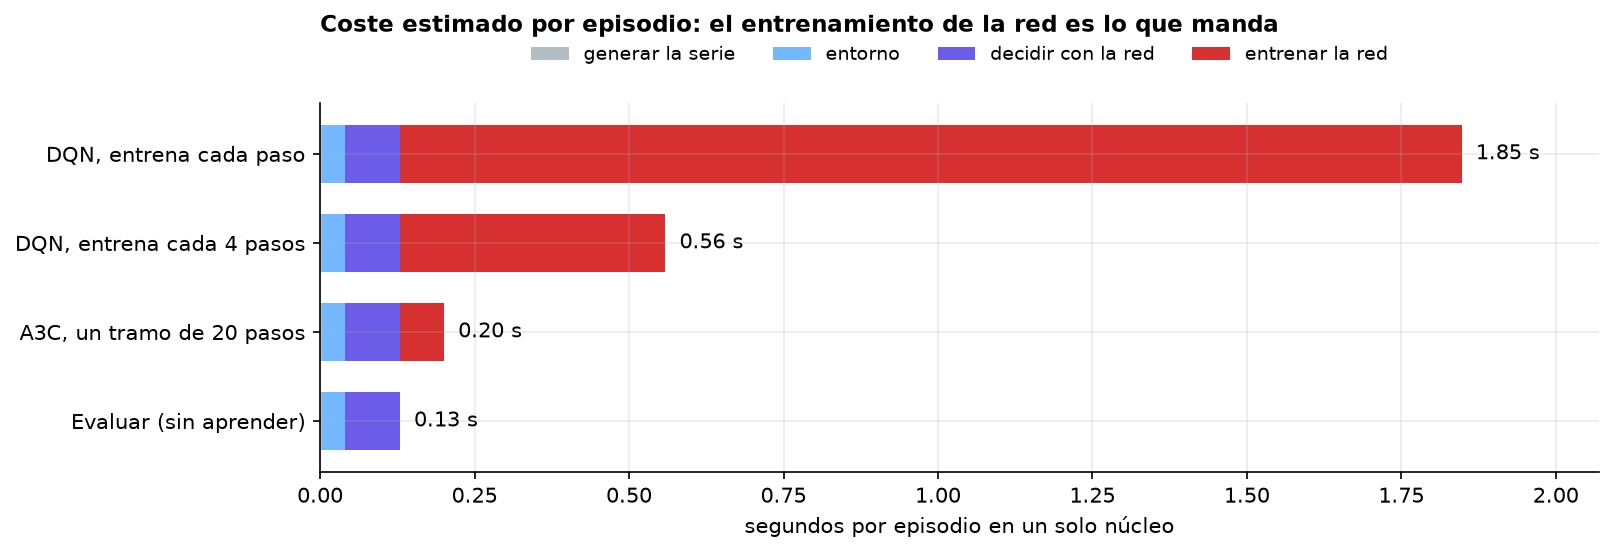
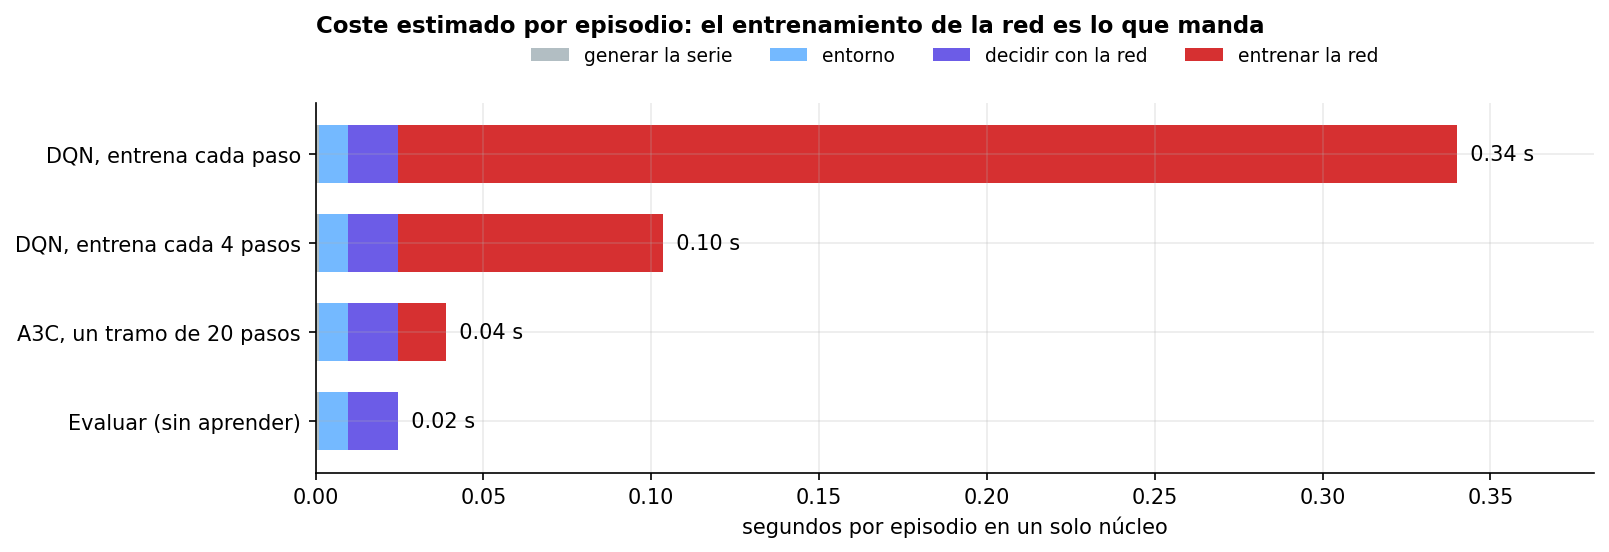
Actualiza los tiempos al equipo actual y D-1.1 en la teoría
Vuelve a medir el coste de entrenamiento del notebook 00, §7, con un Ryzen 5 3600,
incluida la ganancia real con varios procesos a la vez. Un barrido grande de DQN
pasa de más de un día a unas horas.

La teoría ya da D-1.1 por cerrada y remite a train_scales en lugar de proponer
otros escalados.

diff --git a/docs/teoria/notebook_partida.md b/docs/teoria/notebook_partida.md
@@ -230,7 +230,7 @@ El paso de compra ya cobra la variación del precio; el de venta, no.
 | $\lvert r\rvert$ máximo | 0,51 | ≈0,12 | **Recortar la recompensa a ±1 no hace nada** (trampa 8) |
 
 - "Recompensa ≈1e-3 por paso" (D-1.1) es el orden de la **señal** y de la comisión. El **ruido** es de 2e-2 a 1e-1, y hay que tenerlo en cuenta al elegir la escala.
-- Sin normalizar, la tendencia de los mercados 2-4 apenas mueve la entrada frente a la posición, y la red tenderá a ignorarla. No sirve normalizar con los límites de `observation_space` (±1), que no reflejan la escala real. Normalizar con estadísticos de train por mercado es la alternativa de D-1.1, que sigue abierta.
+- Sin normalizar, la tendencia de los mercados 2-4 apenas mueve la entrada frente a la posición, y la red tenderá a ignorarla. No sirve normalizar con los límites de `observation_space` (±1), que no reflejan la escala real. Normalizar con estadísticos de train por mercado es lo que decide D-1.1, ya cerrada (`train_scales`).
 - Las Q iniciales de una red sin entrenar pueden ser mayores que las diferencias entre acciones (≈1e-3). **La pérdida baja antes de que la política tenga sentido:** mirad la política, no solo la pérdida.
 - **Lo que no cambia:** la red recibe la misma información que la tabla. Gana resolución (umbral continuo, sin bins) y generalización, **pero no ve nada nuevo.** Donde el Taller 1 falló por falta de información (mercado 4), no hay razón para esperar una mejora.
 
@@ -388,7 +388,7 @@ Convergencia del duelo con la misma configuración (T1:D-2.5). Otros datos del T
 12. **Un `terminated` mal tratado.** El último paso no es terminal de verdad (D-1.2). Afecta a 1 de 494 pasos en DQN, pero en A3C también al arranque del retorno de $n$ pasos: decidid una regla y usadla en los dos.
 13. **Evaluar A3C solo en *greedy*.** Por las acciones redundantes (§4.2, sutileza 2), la política determinista puede diferir mucho de la estocástica aprendida. Comparad las dos antes de sacar conclusiones. En la tabla va la *greedy* (D-0.1), y conviene decir si la estocástica difiere.
 14. **Volver a ejecutar la celda que crea el modelo** y perder lo entrenado (T30 ~04:43). Guardad con `save` y usad la caché de `run_grid`.
-15. **Quedarse sin tiempo.** Con los costes de D-0.2 (una medición, vale la proporción), aprender en cada paso cuesta 494 × ≈3,6 ms ≈ 1,8 s por episodio: 500 episodios son ≈15 min y 4 mercados × 5 semillas son ≈5 h **en secuencia, para un solo algoritmo y sin barridos**. Evaluar 200 series añade ≈28 s por agente y mercado. Conviene aprender cada varios pasos o al final de la época (T30 ~03:33), aunque un único paso de gradiente por episodio es muy poco ([03_dqn.md](03_dqn.md) §13); lanzar barridos con `run_grid` y reservar el resultado final con tiempo. Y `tiempo_s` solo es comparable con `n_jobs=1`.
+15. **Quedarse sin tiempo.** Con lo medido en el equipo actual (notebook 00, §7), aprender en cada paso cuesta ≈0,34 s por episodio: 500 episodios son ≈3 min y 4 mercados × 5 semillas son ≈1 h **en secuencia, para un solo algoritmo y sin barridos**. Evaluar 200 series añade ≈10 s por agente y mercado. En otro equipo puede costar varias veces más. Conviene aprender cada varios pasos o al final de la época (T30 ~03:33), aunque un único paso de gradiente por episodio es muy poco ([03_dqn.md](03_dqn.md) §13); lanzar barridos con `run_grid` y reservar el resultado final con tiempo. Y `tiempo_s` solo es comparable con `n_jobs=1`.
 16. **Funciones en celdas con A3C.** En Windows, `spawn` no puede importar funciones de una celda; `worker` va en `common/a3c.py`, con `set_num_threads(1)` y `set_seed` por proceso (README; D-0.2). No se anidan procesos: `run_grid(..., n_jobs=1)`.
 17. **Usar GPU esperando ganar tiempo.** Con estas redes no compensa (T30 ~04:40; D-0.2).
 18. **Modificar `env.py` o los generadores.** Lo detecta `test_common.py` y rompe la comparación. Las variantes van en un entorno derivado.

diff --git a/docs/teoria/03_dqn.md b/docs/teoria/03_dqn.md
@@ -759,8 +759,8 @@ Las celdas 0-1, 4 son importaciones y vídeo; 5 está vacía; 7 crea el entorno;
 
 **Nota (propuestas nuestras, a validar):**
 
-1. **Escala: es el riesgo principal.** $10^{-3}$ es el orden de la señal y de la comisión; con posición abierta, el ruido por paso es de $2\cdot10^{-2}$ a $10^{-1}$ ([notebook_partida.md](notebook_partida.md) §4.3). Las diferencias entre acciones que la red debe resolver son del orden de $10^{-3}$: su contribución al error cuadrático ronda $10^{-6}$ y sus gradientes con MSE casi desaparecen, en especial con SGD. El recorte a $[-1,1]$ **no hace nada aquí**: hay que **escalar** por una constante positiva, por ejemplo $r\times100$, que no altera la política óptima. Medirlo imprimiendo mínimo y máximo de los *targets*, como la línea comentada de la celda 6 de `2-cart_pole_DQN`.
-2. **Entrada.** Comprobar la escala real de `tendencia`: si es del orden de $10^{-2}$ al lado de `posición` en $\{0,1\}$, la red apenas la verá. Se puede normalizar con una constante fija, sin tocar el entorno copiado, en un envoltorio.
+1. **Escala: es el riesgo principal.** $10^{-3}$ es el orden de la señal y de la comisión; con posición abierta, el ruido por paso es de $2\cdot10^{-2}$ a $10^{-1}$ ([notebook_partida.md](notebook_partida.md) §4.3). Las diferencias entre acciones que la red debe resolver son del orden de $10^{-3}$: su contribución al error cuadrático ronda $10^{-6}$ y sus gradientes con MSE casi desaparecen, en especial con SGD. El recorte a $[-1,1]$ **no hace nada aquí**: hay que **escalar** por una constante positiva, que no altera la política óptima. D-1.1 (cerrada) fija esa constante: $r/\sigma_{\text{retorno}}$, con `train_scales(mercado)`. Medirlo imprimiendo mínimo y máximo de los *targets*, como la línea comentada de la celda 6 de `2-cart_pole_DQN`.
+2. **Entrada.** La `tendencia` es del orden de $10^{-2}$ al lado de `posición` en $\{0,1\}$, y la red apenas la vería. D-1.1 (cerrada) la divide por $\sigma_{\text{tendencia}}$ dentro del agente, sin tocar el entorno copiado.
 3. **Frecuencia de actualización.** Entrenar en cada paso, o cada pocos, no una vez por episodio. El resultado de §13 es el aviso: 494 transiciones por episodio y un solo gradiente sería muy poco. D-0.2 mide unos 3 ms por paso de entrenamiento en PyTorch, lo que lo hace viable.
 4. **Memoria.** 494 transiciones por episodio implica que 1.000 no llegan a 2 episodios, y 20.000 son unos 40 episodios. Partir de esos 20.000 y variar; con un mínimo de arranque antes de entrenar.
 5. **Red objetivo.** Incluirla desde el principio, con la copia en el sentido correcto ($\theta^-\leftarrow\theta$) y $C$ como hiperparámetro, y comparar con y sin ella para justificarla.

diff --git a/docs/teoria/04_doble_dqn_y_duelo.md b/docs/teoria/04_doble_dqn_y_duelo.md
@@ -180,7 +180,7 @@ Por qué tendrían sentido aquí (apartado de "ir más allá"):
 1. **Ruido alto, señal baja.** Los precios sintéticos tienen una componente aleatoria importante, así que $Q$ es muy ruidosa y la diferencia entre acciones es pequeña. Es el escenario donde el `max` más sobreestima: la red "encuentra" una acción que parece ganar solo por ruido. Con Doble DQN, el valor de esa acción lo da otra red con ruido distinto. En trading, la sobreestimación se traduce en operar de más y pagar comisiones (0,1 % por operación) por ganancias que no existen.
 2. **Pocas acciones (3).** La sobreestimación crece con el número de acciones candidatas, así que con 3 el efecto será menor que en juegos con muchas acciones; es esperable una mejora modesta de Doble DQN. Merece probarlo igualmente: cuesta una línea.
 3. **Dueling.** En muchos pasos las tres acciones valen casi lo mismo (la posición ya está tomada y el precio no se mueve de forma explotable). Lo que la red debe aprender sobre todo es el valor del estado, $V(s)$ (p. ej. "estoy largo en una tendencia alcista"), y las ventajas son diferencias pequeñas. El duelo comparte ese aprendizaje de $V$ entre las tres acciones.
-4. **Escala de recompensa.** Con recompensas de $\sim10^{-3}$, las diferencias entre acciones son del orden de la comisión y la red puede no distinguirlas. Conviene reescalar o normalizar la recompensa (p. ej. multiplicar por 100-1000) y vigilar que $Q$ no colapse a una constante.
+4. **Escala de recompensa.** Con recompensas de $\sim10^{-3}$, las diferencias entre acciones son del orden de la comisión y la red puede no distinguirlas. La recompensa se escala con la σ del retorno (D-1.1, cerrada); aun así, hay que vigilar que $Q$ no colapse a una constante.
 5. **Estabilidad.** El *target* dinámico (T30 ~01:02:02) se mitiga con la red retardada: $k$ del orden de cientos de pasos o copia suave con $\tau\approx0{,}005$. El *clipping* es el truco que menciona el profesor (T30 ~02:35:22-02:35:47), pero a $\pm1$ no actúa aquí, porque $|r|$ no pasa de 0,51 ([notebook_partida.md](notebook_partida.md) §4.3), y Huber con $\delta=1$ se reduce a MSE: para limitar los extremos (mercado 1) hay que elegir el umbral según la escala.
 6. **Experimento sugerido:** comparar DQN, Doble DQN, DQN en duelo y ambos a la vez, con varias semillas, en cada uno de los cuatro generadores. Medir el retorno y también la $Q$ media del estado inicial: si crece sin que crezca el retorno real, hay sobreestimación.
 7. **Red pequeña:** la observación tiene solo 2 valores, así que basta un MLP de 1-2 capas ocultas; el duelo se aplica sobre la última capa oculta con las dos cabezas ($V$: 1 salida, $A$: 3 salidas).

diff --git a/docs/teoria/02_td_sarsa_qlearning.md b/docs/teoria/02_td_sarsa_qlearning.md
@@ -324,7 +324,7 @@ loss = F.mse_loss(q(s).gather(1, a[:, None]).squeeze(1), y)       # media de del
 - **Estado más informativo:** en el Taller 1, añadir distancia a MA30 y volatilidad20 mejoró reversión (+18 % a +43-44 %) y regímenes (0 % a +7,5-7,8 %); la red del Taller 2 solo ve `[tendencia, posición]`, así que cabe esperar que el techo siga estando en el estado y no en el algoritmo (como en el mercado 4). **Nota:** ampliar la observación sería una extensión del enunciado.
 
 **Cuestiones de escala propias de la red** (no existen en la tabla):
-- La recompensa es ≈1e-3 por paso y la comisión del 0,1 % es del mismo orden; los $Q$ reales son pequeños (con $\gamma=0{,}99$ y 494 pasos, del orden de décimas como máximo) y las diferencias entre acciones son aún menores. Una red inicializada con salidas $O(1)$ tiene gradientes dominados por ese sesgo inicial. D-1.1 (abierta) recoge las alternativas: normalizar la observación con estadísticos solo de entrenamiento (la tendencia tiene percentiles 5/95 ≈ ±0,23 en el mercado 1 y ≈ ±0,04 en el resto), escalar la recompensa o recortarla (*clip*). **Nota (propuesta):** escalar la recompensa por un factor fijo y normalizar la tendencia con estadísticos de entrenamiento, y registrar la elección.
+- La recompensa es ≈1e-3 por paso y la comisión del 0,1 % es del mismo orden; los $Q$ reales son pequeños (con $\gamma=0{,}99$ y 494 pasos, del orden de décimas como máximo) y las diferencias entre acciones son aún menores. Una red inicializada con salidas $O(1)$ tiene gradientes dominados por ese sesgo inicial. D-1.1 (cerrada) decide normalizar las dos cosas con constantes por mercado calculadas solo con train (`train_scales`): la tendencia, cuyos percentiles 5/95 son ≈ ±0,23 en el mercado 1 y ≈ ±0,04 en el resto, se divide por su σ, y la recompensa, por la σ del retorno.
 - $\epsilon$ pasa de decaer por episodio en tabular a decaer por episodio o por paso en DQN; la regla del Taller 1 ($\epsilon\leftarrow\max(\epsilon_{\min},\epsilon\cdot\text{decay})$ por episodio) sigue siendo un punto de partida válido, con la recomendación de §10: $\epsilon\to0$ (o $\epsilon_{\min}$ pequeño) para que la política *greedy* final coincida con la aprendida.
 
 **Cuándo mirar SARSA aún.** **Nota:** un DQN *on-policy* con objetivo SARSA ($r+\gamma Q(s',a')$, $a'$ real) es posible y daría políticas más conservadoras mientras $\epsilon>0$, pero no es lo que pide el enunciado y con las comisiones de este entorno el efecto es pequeño (Taller 1). Solo merece la pena como experimento adicional.

diff --git a/docs/teoria/08_trading_en_clase.md b/docs/teoria/08_trading_en_clase.md
@@ -293,7 +293,7 @@ Cada punto da lo que hace el código y la corrección razonada.
 - La recompensa de `SimpleTradingEnv` se parece al *mark-to-market* del que habló el profesor ("le estás dando en cada momento la composición de tu cartera si mejora o no", T30 ~03:28:21).
 - En clase el agente puede comprar varios paquetes; en el Taller solo hay dos estados de cartera. El problema es más sencillo, pero la política óptima se reduce a "cuándo estar dentro".
 - El estado de dos números del Taller **resume** la historia (una media de 6 precios); el de clase da la ventana completa de retornos (más información, más dimensiones).
-- **Nota:** escala del estado en el Taller: la tendencia es del orden de 0,01-0,05 mientras la posición es 0/1; conviene reescalar la tendencia (p. ej. ×20-50) o estandarizar, siguiendo el aviso de T30 ~00:34:09 sobre escalas.
+- **Nota:** escala del estado en el Taller: la tendencia es del orden de 0,01-0,05 mientras la posición es 0/1; D-1.1 (cerrada) la divide por su σ de train, en línea con el aviso de T30 ~00:34:09 sobre escalas.
 
 *Fuente: 01-AR_trading_prueba celda 9; PC5 celdas 1, 8; taller_trader2 celdas 3, 4, 19-22; T30 ~03:28:10-03:29:07. La tabla y las notas de escala son comparación propia.*
 
@@ -311,7 +311,7 @@ Para el Taller (DQN y A3C, `SimpleTradingEnv` con observación `[tendencia, posi
 **Qué conviene arreglar respecto al código de clase.**
 - Decaimiento de $\epsilon$: por episodios de 494 pasos y con muchos episodios, evitar el caso del notebook 1 (ε≈0,9 al final).
 - Decidir cómo tratar el fin de la serie (§9, #7): como *truncation* (no anular el bootstrapping en el último paso), que es lo que propone este documento, o como terminal, como en el Taller 1. D-1.2 sigue abierta; la regla debe ser la misma en DQN y A3C.
-- Escalar las entradas y las recompensas (≈1e-3): la señal es pequeña y la red puede quedarse en $Q\approx0$; se puede multiplicar la recompensa por una constante (p. ej. 100) en el agente sin tocar el entorno.
+- Escalar las entradas y las recompensas (≈1e-3): la señal es pequeña y la red puede quedarse en $Q\approx0$. D-1.1 (cerrada) lo hace en el agente con `train_scales(mercado)`, sin tocar el entorno.
 - No usar `lr=`: `learning_rate=`.
 
 **Extras que se pueden ensayar** (cada uno es opcional y cuenta como "pruebas que van más allá de los mínimos", 10 % de la nota):

diff --git a/docs/DECISIONES.md b/docs/DECISIONES.md
@@ -28,6 +28,9 @@ Formato ligero tipo ADR, como en el Taller 1. ID `D-X.n`: `X` es el bloque (0 ge
 - **A3C:** con procesos que comparten memoria (`share_memory`, `spawn`), probado con 3 procesos actualizando los mismos
   pesos desde un módulo importado. El arranque cuesta unos 19 s, casi todo imports, así que conviene lanzarlos una vez
   por entrenamiento.
+- **Medición en el equipo actual (Ryzen 5 3600, 6 núcleos físicos y 12 lógicos; solo PyTorch, `00_entorno_y_baselines`, §7):**
+  evaluar un episodio con `evaluate()` cuesta 0,05 s y un paso de entrenamiento (batch de 128), unos 0,64 ms. Lanzar 3 procesos cuesta unos
+  3 s. Con todos los procesos a la vez, 3 rinden x2,5 y 11, x5,5.
 - **Coste asumido:** el código de clase está en Keras y hay que traducirlo.
 - **Estado:** CERRADA
 
